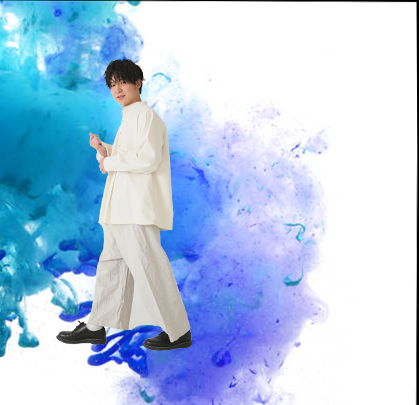
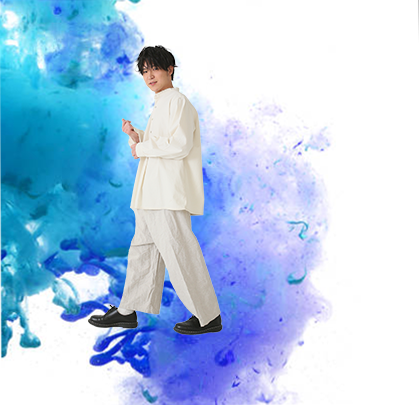
modify sp ppl

diff --git a/css/ikidukai.css b/css/ikidukai.css
@@ -204,7 +204,8 @@ body.guide::before {
       height: 60vh;
       justify-self: center; }
 .index .gimmick-inner #mushimegane {
-  top: 13vh; }
+  top: 25vh;
+  left: 18vw; }
 .index footer {
   position: fixed;
   bottom: 0;
@@ -317,6 +318,13 @@ footer {
     width: 85vw;
     height: 70vh;
     grid-template-columns: repeat(2, 1fr); }
+    .index .gimmick-inner #ppl-inner .ppl {
+      height: 100%;
+      width: 100%;
+      display: grid;
+      justify-content: center; }
+      .index .gimmick-inner #ppl-inner .ppl img {
+        height: 35vh; }
 
   .detail .info-text, .measure .info-text {
     margin-right: 1.5rem; }

diff --git a/css/ikidukai.scss b/css/ikidukai.scss
@@ -336,7 +336,9 @@ body { // background-imageをspでも正常になるように固定
     }
 
     #mushimegane {
-      top: 13vh;
+      // top: 13vh;
+      top: 25vh;
+      left: 18vw;
     }
   }
 
@@ -545,6 +547,17 @@ footer {
         width: 85vw;
         height: 70vh;
         grid-template-columns: repeat(2, 1fr);
+
+        .ppl{
+          height: 100%;
+          width: 100%;
+          display: grid;
+          justify-content: center;
+
+          img {
+            height: 35vh;
+          }
+        }
       }
     }
   }
